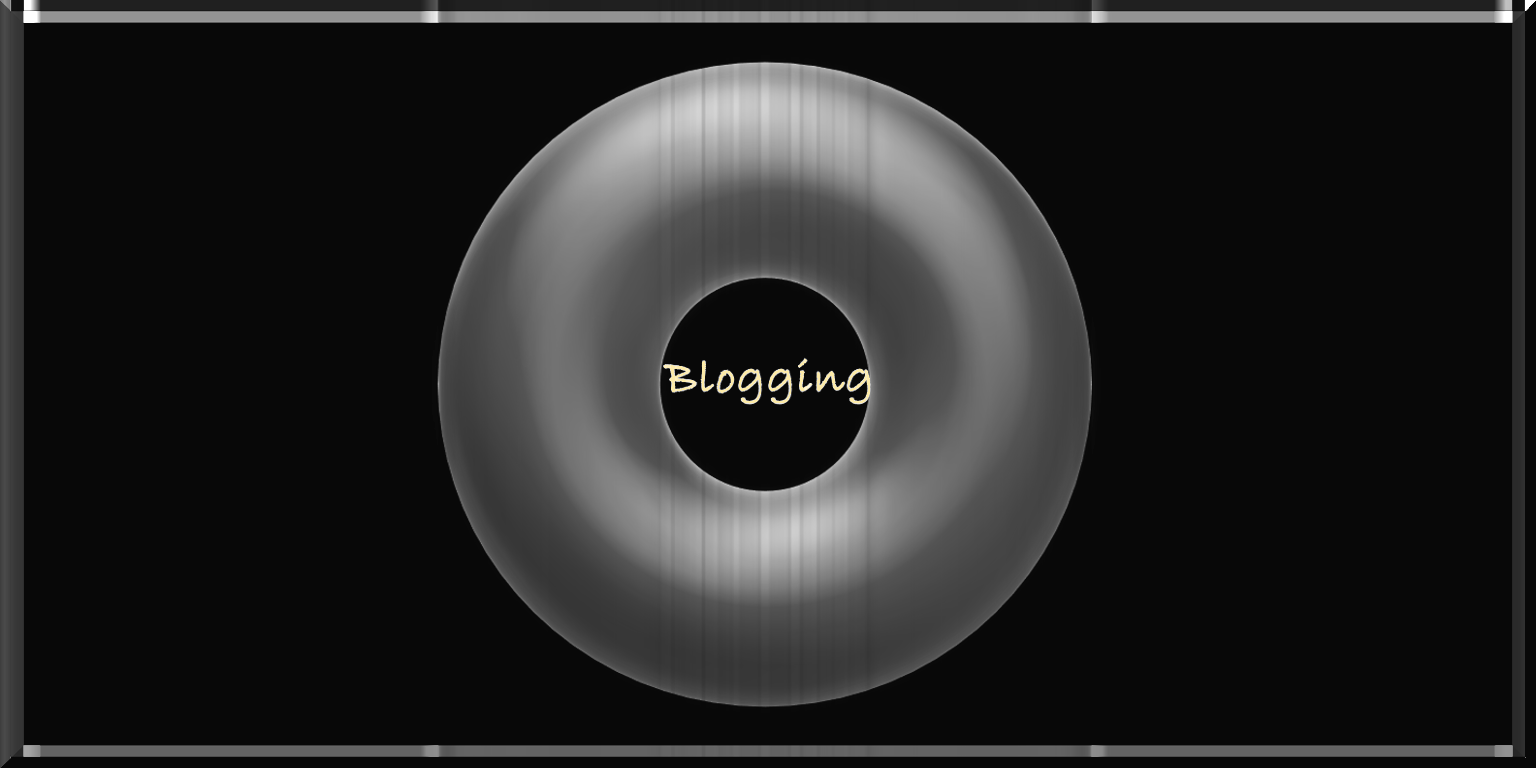
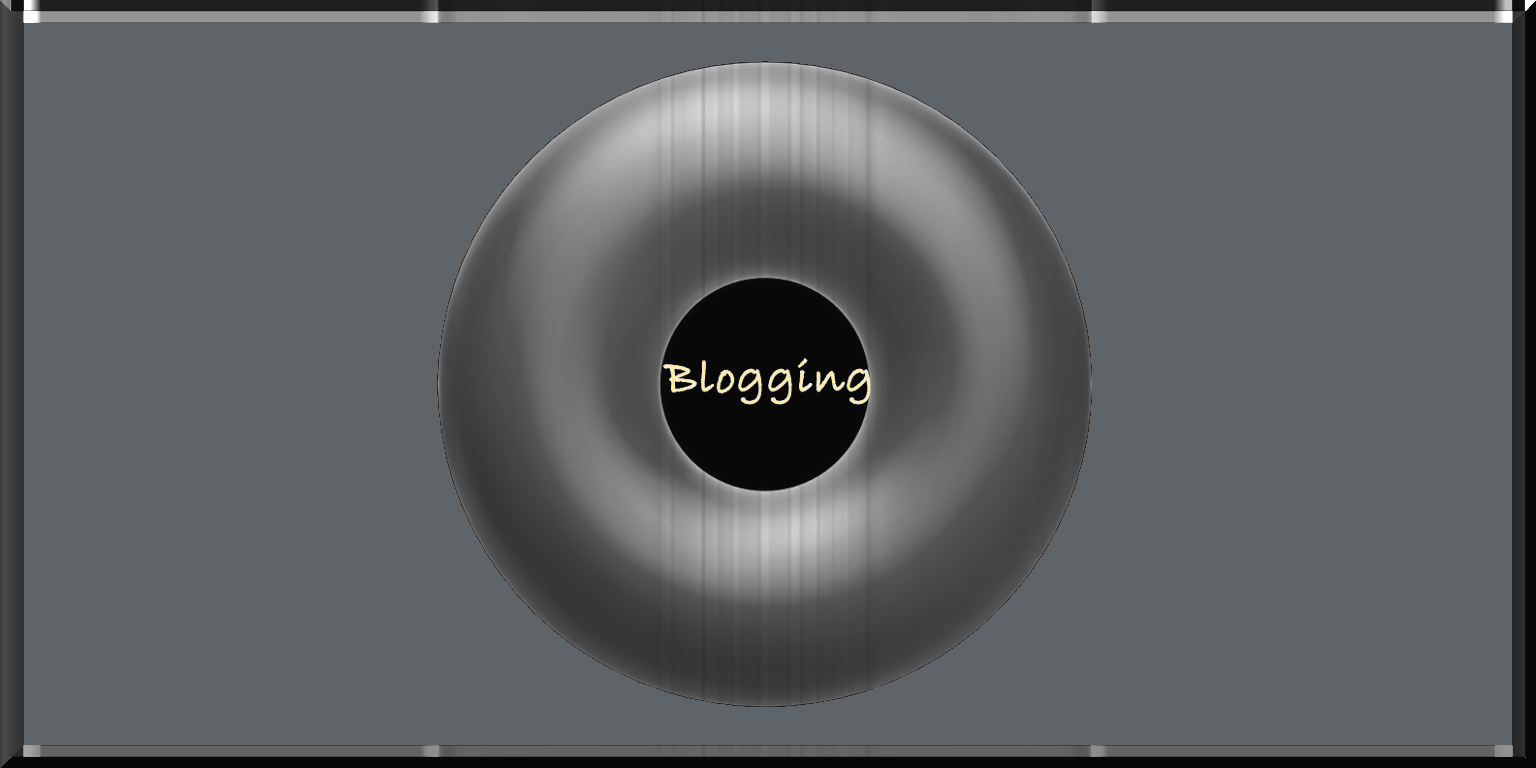
yellow and grey

diff --git a/Apps/grails-app/assets/stylesheets/style-desktop.css b/Apps/grails-app/assets/stylesheets/style-desktop.css
@@ -232,7 +232,7 @@
 	#nav
 	{ 
 		text-align: center;
-		background-color: #5f6469;
+		background-color: #fdeba9;
 		height: 15em;
 	}
 
